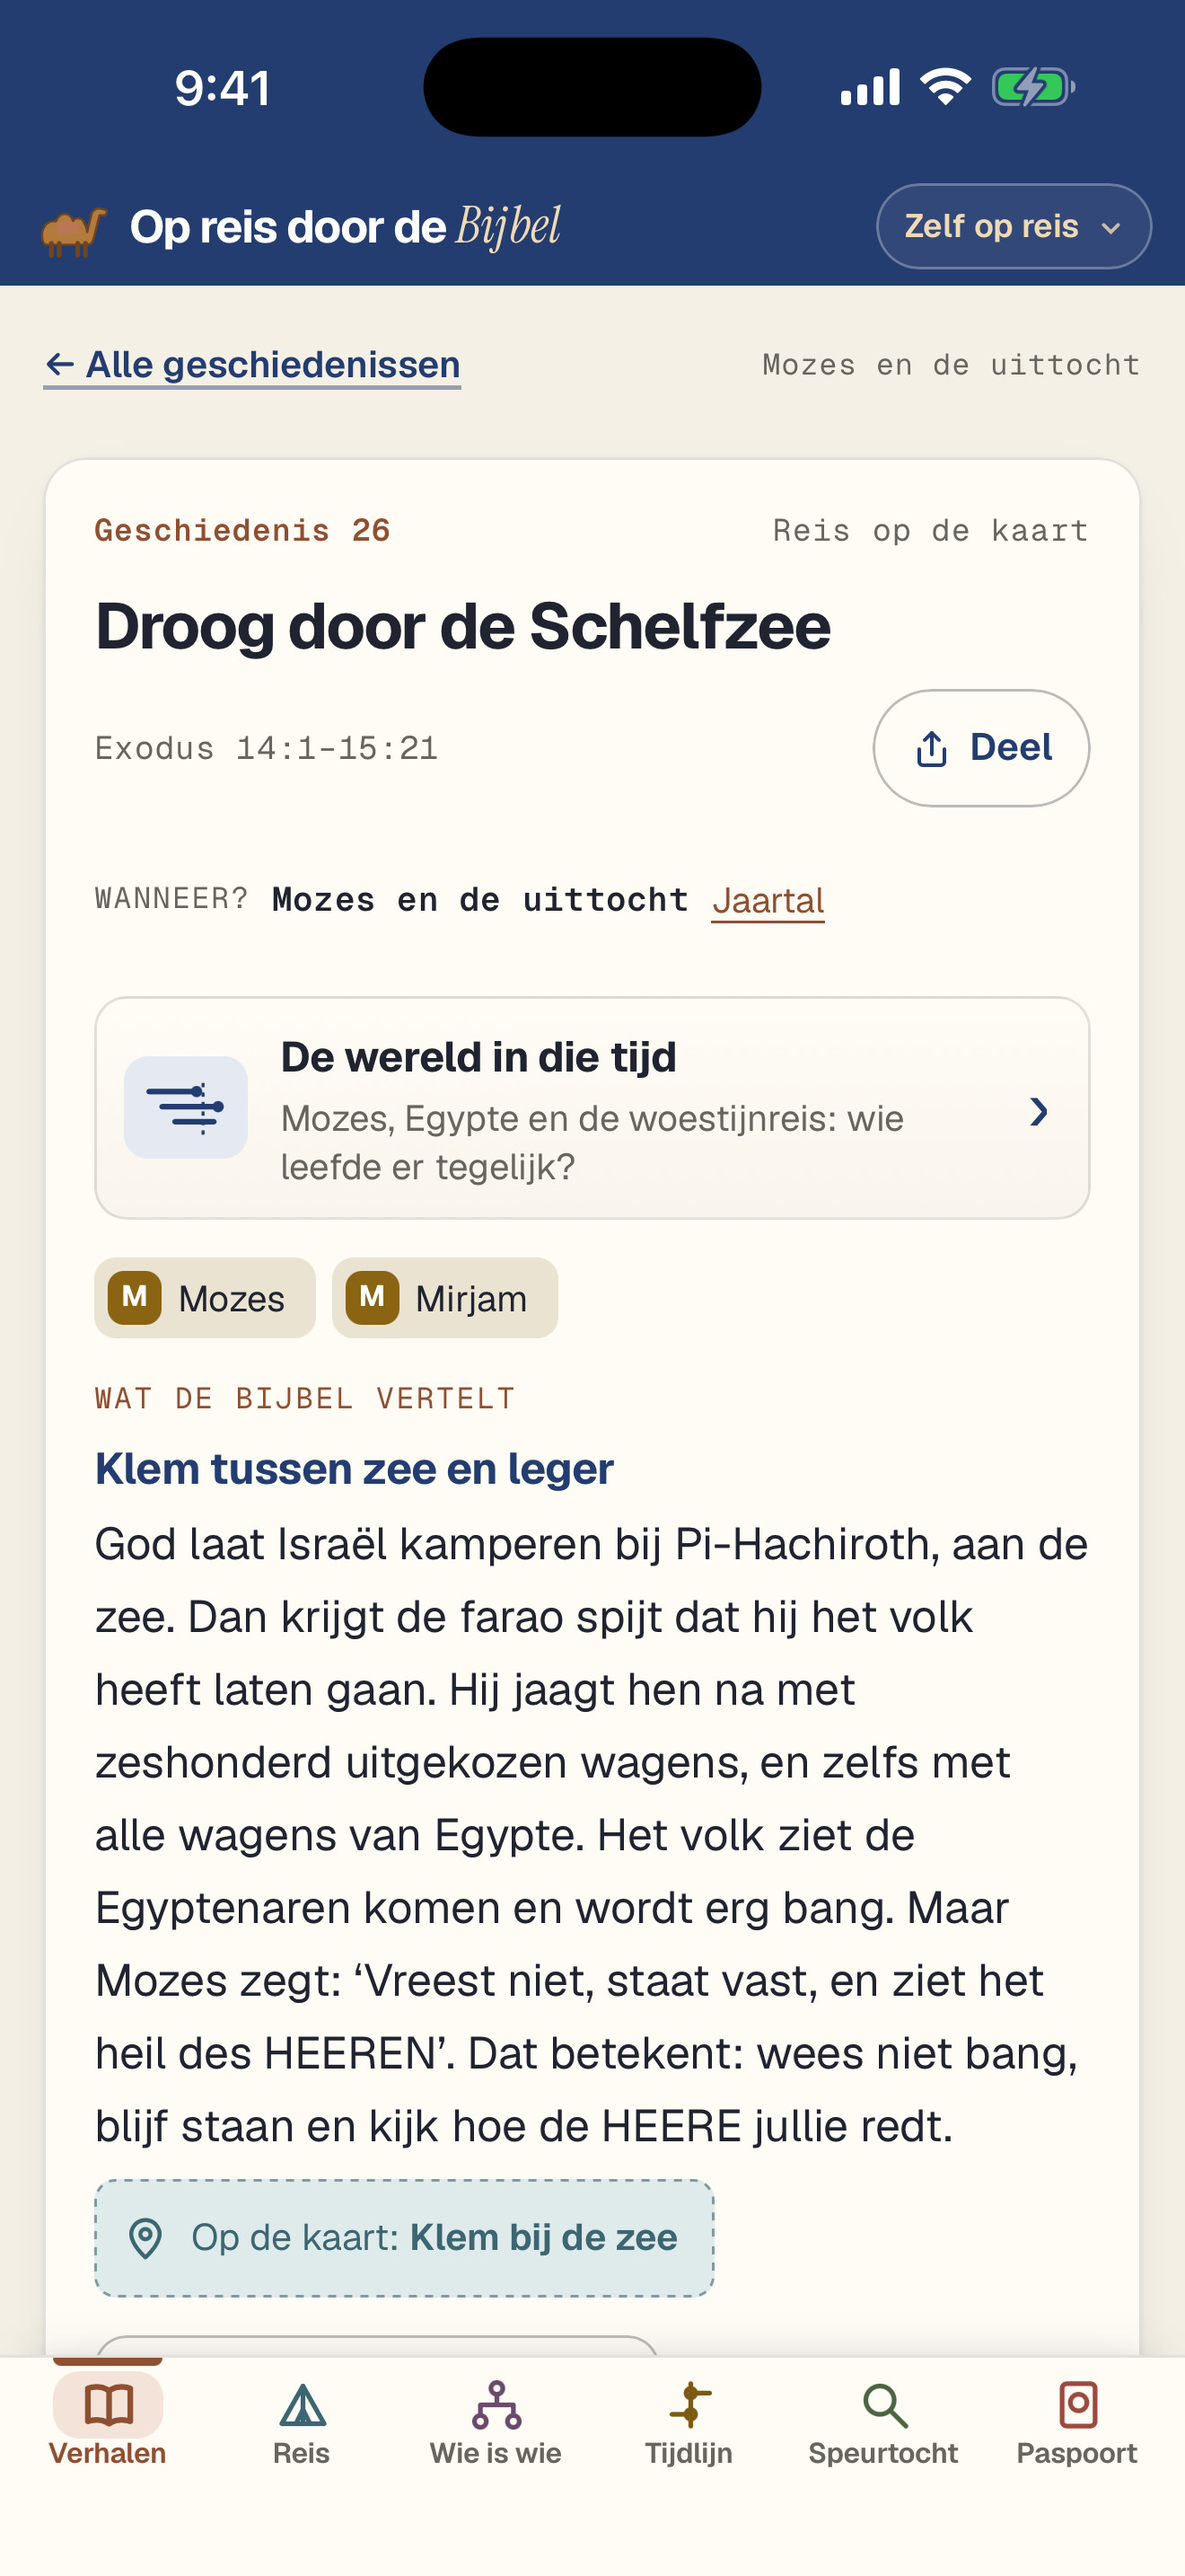
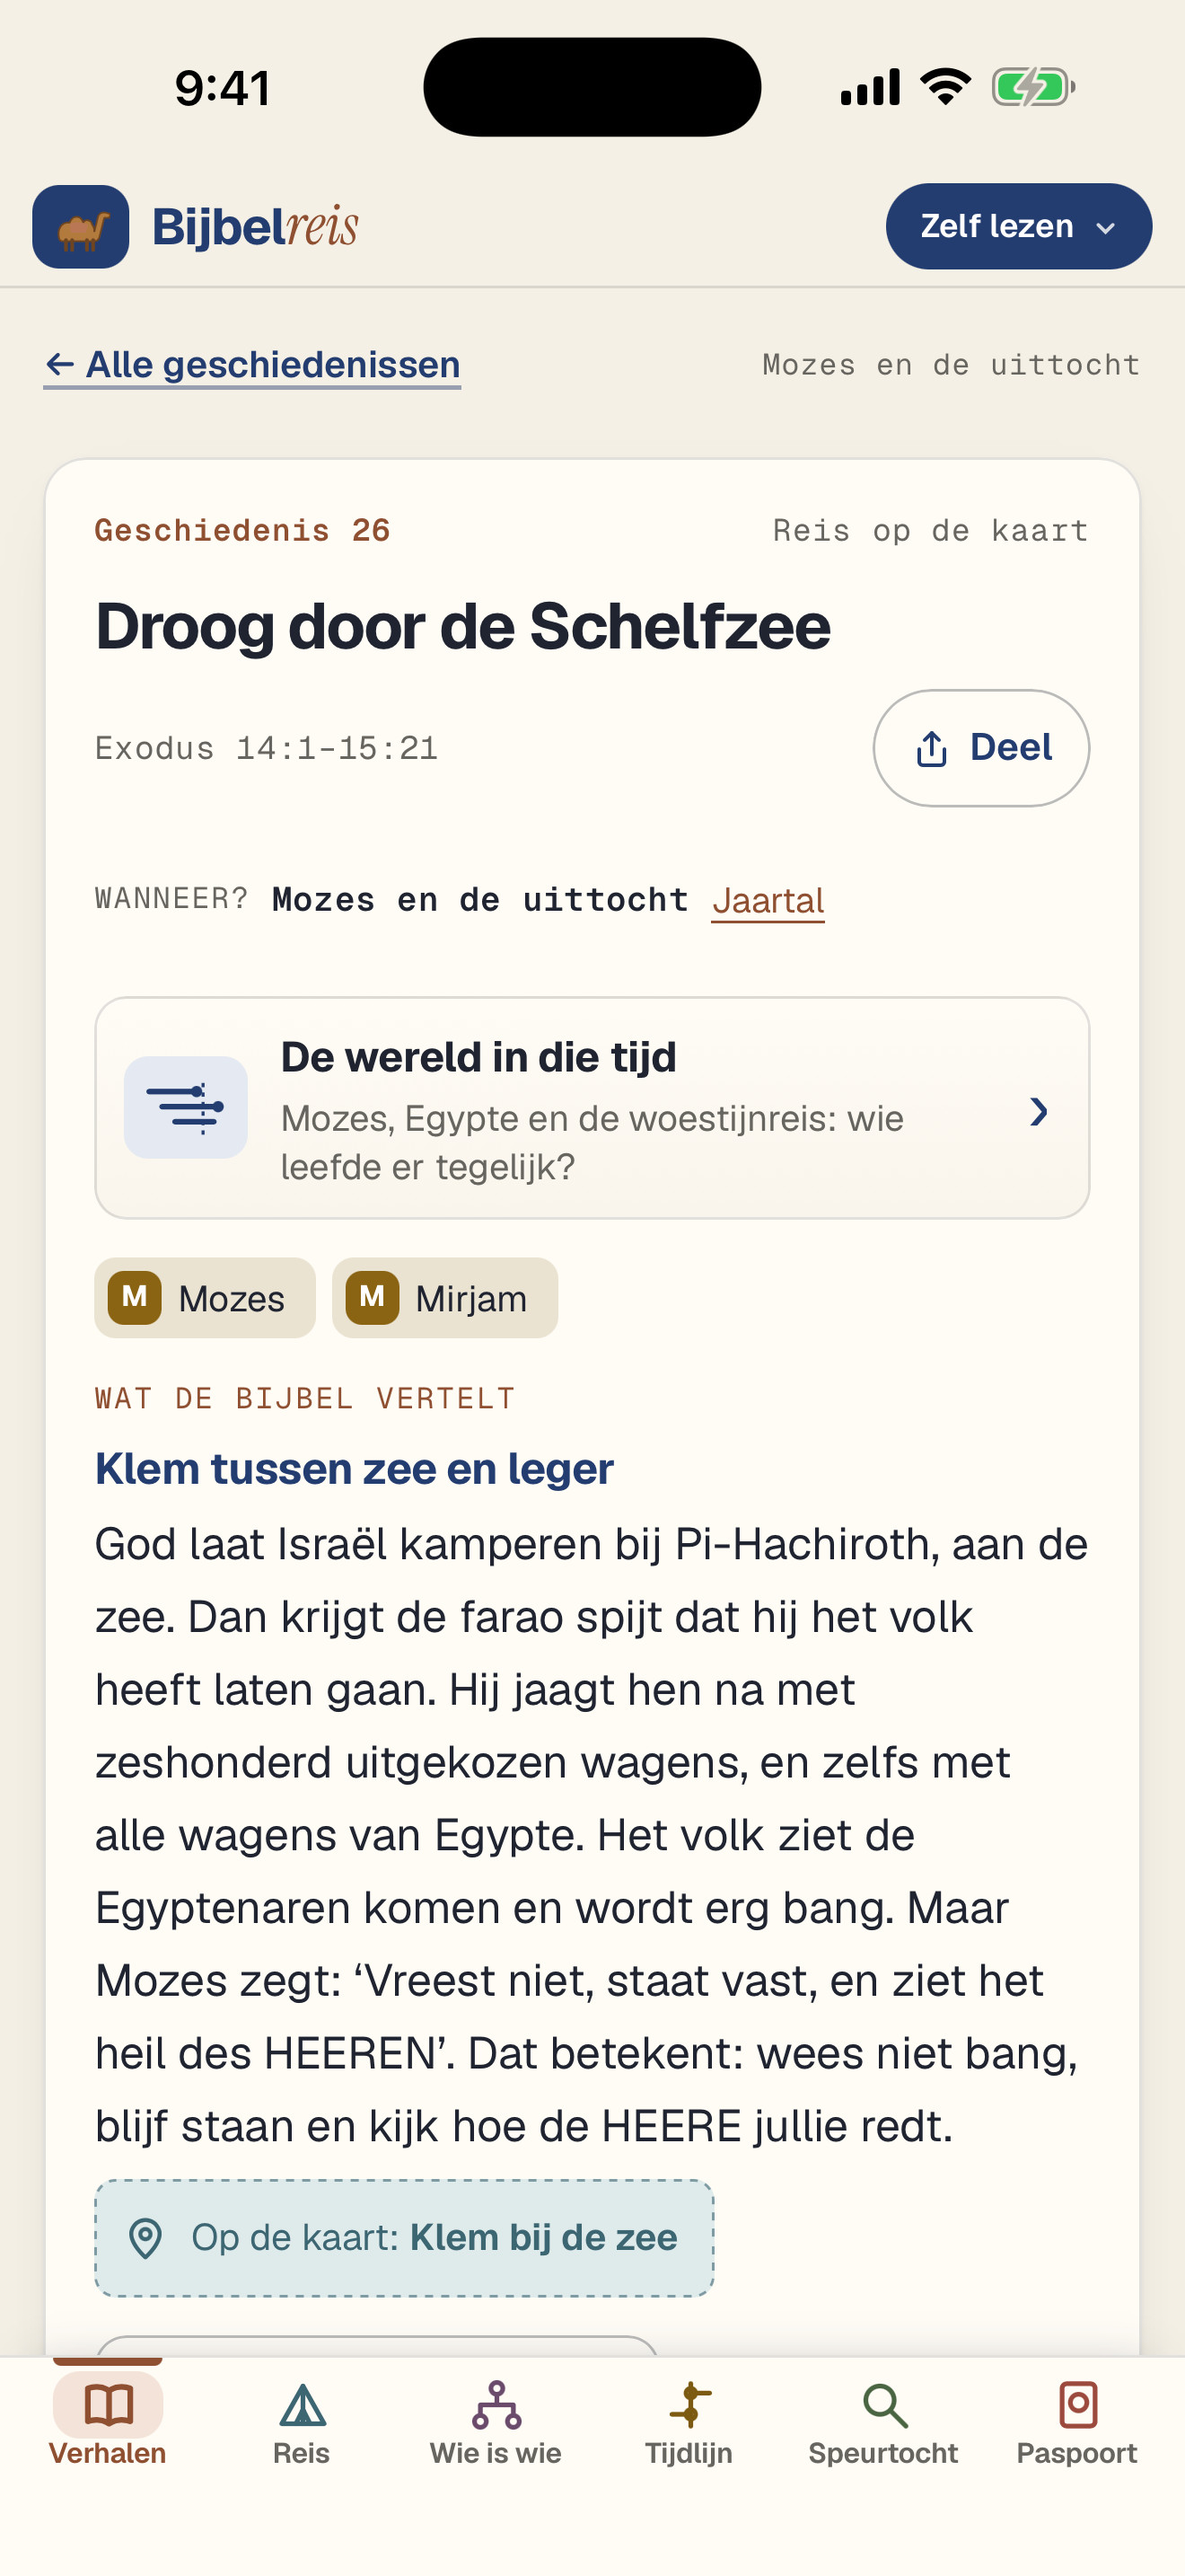
Bijbelreis iOS: App Store-schermafbeeldingen met de lichte kop en de nieuwe niveaunamen (#67)
Echte simulatorbeelden uit run 44883647818 (iOS 26.5; iPhone 6,9" 1320×2868, 6,3" 1206×2622, iPad 13" 2064×2752;
JPEG zonder alfakanaal), zelfde vijf schermen als eerder. APPSTORE.md verwijst naar de nieuwe run.

Claude-Session: https://claude.ai/code/session_01UATKx6UxsaYkAXo5tNKtaQ

Changed region(s): [[0.0, 0.0, 1.0, 0.1241]]

diff --git a/docs/bijbelreis-ios/APPSTORE.md b/docs/bijbelreis-ios/APPSTORE.md
@@ -328,8 +328,8 @@ toestellen.
 
 **Het zijn echte simulatorbeelden:** de app zelf in WKWebView in de iOS-simulator (iOS 26.5), met statusbalk (9:41,
 volle batterij), Dynamic Island en de echte lettertypen, gemaakt door de workflow `iOS-app` (artefact
-**simulator-schermafbeeldingen**, map `appstore/`), run 44764014669 van 20-11-2026 op de branch met de nieuwste main
-(https://github.com/MartijndBesten/Martijn-den-Besten/actions/runs/44764014669). De vorige set waren browserweergaven
+**simulator-schermafbeeldingen**, map `appstore/`), run 44883647818 van 21-11-2026 (PR #66: lichte kop, niveaus Voorlezen / Zelf lezen / Verdiepen)
+(https://github.com/MartijndBesten/Martijn-den-Besten/actions/runs/44883647818). De vorige set waren browserweergaven
 (Chromium, zonder statusbalk); die zijn vervangen. `npm run screenshots` maakt nog browserweergaven, maar nu in
 `store/screenshots-browser/` (niet in git), zodat ze de simulatorbeelden niet overschrijven. Nieuwe maken: workflow starten (Actions → iOS-app →
 Run workflow), artefact downloaden, `appstore/<map>/*.jpg` over `apps/ios/store/screenshots/` zetten.
